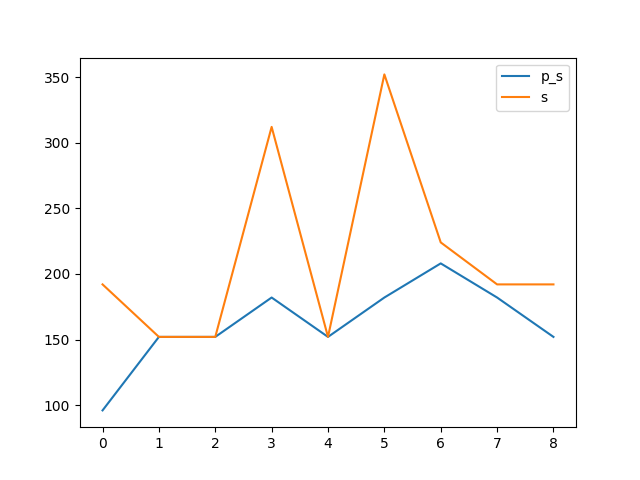
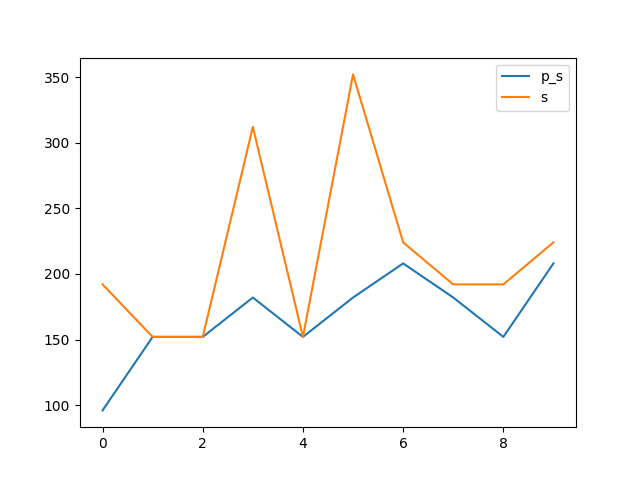
0x0009

diff --git a/benchmark.md b/benchmark.md
@@ -26,13 +26,15 @@ Synthesising 0x0007 pexact:182 r=4 exact:192 r=3
 
 Synthesising 0x0008 pexact:152 r=3 exact:192 r=3
 
+Synthesising 0x0009 pexact:208 r=4 exact:224 r=3
+
 ```mermaid
 xychart-beta
     title "Comparison powertwoexact twoexact"
-    x-axis [0, 1, 2, 3, 4, 5, 6, 7, 8]
+    x-axis [0, 1, 2, 3, 4, 5, 6, 7, 8, 9]
     y-axis "Switching Activity" 0-->352
-    line [96, 152, 152, 182, 152, 182, 208, 182, 152]
-    line [192, 152, 152, 312, 152, 352, 224, 192, 192]
+    line [96, 152, 152, 182, 152, 182, 208, 182, 152, 208]
+    line [192, 152, 152, 312, 152, 352, 224, 192, 192, 224]
 ```
- avg_p_s=162.0 avg_s=213.33 avg_pr=3.56 avg_r=3.33
+ avg_p_s=166.6 avg_s=214.4 avg_pr=3.6 avg_r=3.3
 
